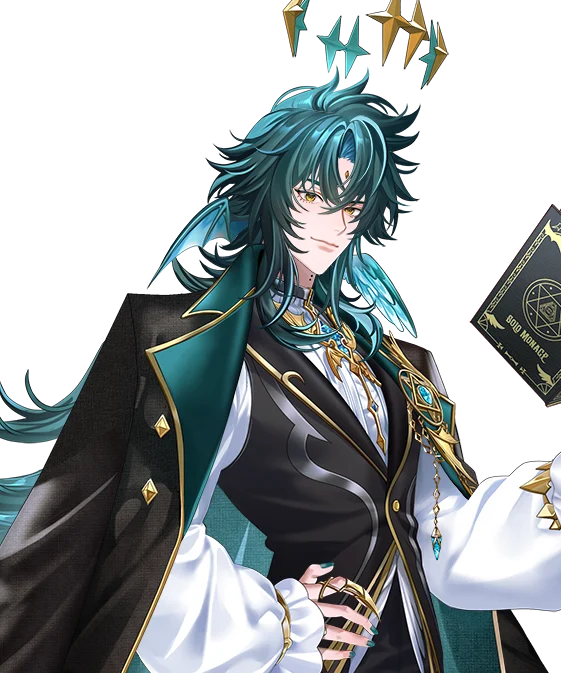
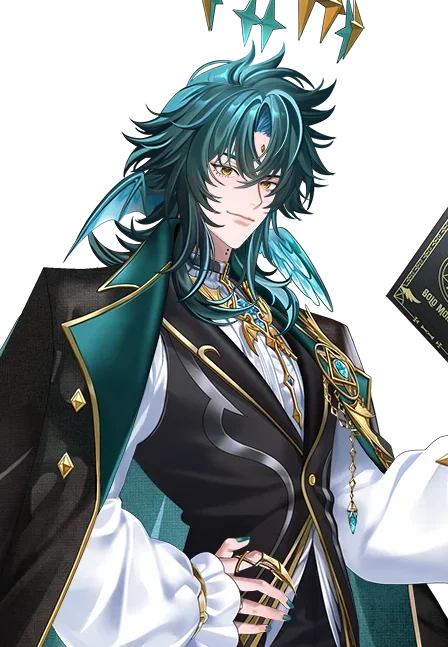
Closer Monace half-body
Claude-Session: https://claude.ai/code/session_0182ETGqkY6VZC2ACV9rE9Mb

diff --git a/index.html b/index.html
@@ -952,7 +952,7 @@ var TALENTS = [
   { id:'luxia', halves:['talent-luxia-half.webp?v=2'], card:'talent-luxia-half.webp?v=2', img:'talent-luxia.webp?v=3', face:'talent-luxia-face.webp?v=8',  name:'Luxia', short:'Luxia', ini:'LX', type:'VTuber', aff:{name:'Polygon', logo:'logos/polygon-mark.png'}, langs:['th'], color:'#E7E1F7', tags:['#Singing','#FreeTalk','#Gaming','#Drawing'], works:['promo','review','collab','dub'], links:[['YouTube',57079,'https://www.youtube.com/@LuxiaPLG'],['TikTok',15700,'https://www.tiktok.com/@luxiaplg'],['Facebook',12455,'https://www.facebook.com/LuxiaPolygon'],['X',16481,'https://x.com/LuxiaPLG']], quote:['ลูเซีย แม่ชีนักวาดผู้ไม่อาจหยุดความวายป่วง','Luxia, an artist nun who simply cannot stop the chaos.'] },
   { id:'riona', halves:['talent-riona-half.webp','talent-riona-2-half.webp'], card:'talent-riona-half.webp', img:'talent-riona.webp', face:'talent-riona-face.webp?v=7', forms:['talent-riona.webp','talent-riona-2.webp'],  name:'Riona', short:'Riona', ini:'RN', type:'VTuber', aff:{name:'Polygon', logo:'logos/polygon-mark.png'}, langs:['th','en'], color:'#FFE7C7', tags:['#Singing','#FreeTalk','#Gaming','#RolePlay'], works:['promo','review','collab','dub'], links:[['YouTube',16208,'https://www.youtube.com/@RionaPLG'],['TikTok',4081,'https://www.tiktok.com/@rionaplg'],['Facebook',10980,'https://www.facebook.com/RionaPolygon'],['X',4583,'https://x.com/RionaPLG']], quote:['เสือ สวย รวย และน่าน้วยก็ได้ ประธานนักเรียนรุ่นที่ 10 โรงเรียน PLG ริโอน่า สวัสดีค่ะ','A tiger: pretty, rich, and cuddly if you like. Hello, I am Riona, 10th student council president of PLG School!'] },
   { id:'anya', halves:['talent-anya-half.webp?v=2','talent-anya-2-half.webp'], card:'talent-anya-half.webp?v=2', img:'talent-anya.webp?v=2', face:'talent-anya-face.webp?v=7', forms:['talent-anya.webp?v=2','talent-anya-2.webp'],  name:'Anya', short:'Anya', ini:'AY', type:'VTuber', aff:{name:'Polygon', logo:'logos/polygon-mark.png'}, langs:['th'], color:'#DCEFE3', tags:['#Singing','#FreeTalk','#Gaming','#HandCam'], works:['promo','review','collab','dub'], links:[['YouTube',19635,'https://www.youtube.com/@AnyaPLG'],['TikTok',8095,'https://www.tiktok.com/@anyaplg'],['Facebook',7139,'https://www.facebook.com/AnyaPolygon'],['X',4071,'https://x.com/AnyaPLG']], quote:['ลึกแต่ไม่ลับ คับแต่ไม่แคบ ไม่ใช่แค่ช้าง แต่เป็นแมมมอธ แฮ่ !','Deep but no secrets, packed but never cramped. Not just an elephant, a mammoth. Rawr!'] },
-  { id:'monace', halves:['talent-monace-half.webp'], card:'talent-monace-half.webp', img:'talent-monace.webp', face:'talent-monace-face.webp?v=7',  name:'Monace', short:'Monace', ini:'MN', type:'VTuber', aff:{name:'Polygon', logo:'logos/polygon-mark.png'}, langs:['th','en'], color:'#D9E4F5', tags:['#Singing','#FreeTalk','#Gaming','#SongComposer'], works:['promo','review','cover','collab','dub'], links:[['YouTube',2608,'https://www.youtube.com/@MONACEPLG'],['TikTok',1735,'https://www.tiktok.com/@monaceplg'],['Facebook',558,'https://www.facebook.com/MONACEPLG'],['X',1477,'https://x.com/MONACEPLG']], quote:['แรปเปอร์ตัวตึงอาจจะดูเท่ แต่ใจดี พร้อมอยู่ข้างๆ ให้คุณรู้สึกสบายใจเสมอ โซโล โมเนซ ครับ 🪽','A rapper who may look tough but has a kind heart, always by your side to put you at ease. Solo Monace here 🪽'] },
+  { id:'monace', halves:['talent-monace-half.webp?v=2'], card:'talent-monace-half.webp?v=2', img:'talent-monace.webp', face:'talent-monace-face.webp?v=7',  name:'Monace', short:'Monace', ini:'MN', type:'VTuber', aff:{name:'Polygon', logo:'logos/polygon-mark.png'}, langs:['th','en'], color:'#D9E4F5', tags:['#Singing','#FreeTalk','#Gaming','#SongComposer'], works:['promo','review','cover','collab','dub'], links:[['YouTube',2608,'https://www.youtube.com/@MONACEPLG'],['TikTok',1735,'https://www.tiktok.com/@monaceplg'],['Facebook',558,'https://www.facebook.com/MONACEPLG'],['X',1477,'https://x.com/MONACEPLG']], quote:['แรปเปอร์ตัวตึงอาจจะดูเท่ แต่ใจดี พร้อมอยู่ข้างๆ ให้คุณรู้สึกสบายใจเสมอ โซโล โมเนซ ครับ 🪽','A rapper who may look tough but has a kind heart, always by your side to put you at ease. Solo Monace here 🪽'] },
   { id:'vinxiii', halves:['talent-vinxiii-half.webp'], card:'talent-vinxiii-half.webp', img:'talent-vinxiii.webp', face:'talent-vinxiii-face.webp?v=7',  name:'VinXIII', short:'VinXIII', ini:'VX', type:'VTuber', aff:{name:'Polygon', logo:'logos/polygon-mark.png'}, langs:['th'], color:'#F6E7C8', tags:['#Singing','#FreeTalk','#Gaming'], works:['promo','review','cover','collab'], links:[['YouTube',1715,'https://www.youtube.com/@VinXIIIPLG'],['TikTok',1187,'https://www.tiktok.com/@vinxiiiplg'],['Facebook',139,'https://www.facebook.com/VinXIIIPLG'],['X',2175,'https://x.com/VinXIIIPLG']], quote:['ถ้าตามหาคนที่จะทำให้หัวเราะได้ วินซี่ อยู่ตรงนี้เองครับ ที่ไม่ว่าอยู่ที่ไหนก็ทำให้บรรยากาศสดใสขึ้นทันที ⚜','Looking for someone to make you laugh? Vinzy is right here, brightening the room wherever he goes ⚜'] },
   { id:'augustine', halves:['talent-augustine-half.webp'], card:'talent-augustine-half.webp', img:'talent-augustine.webp', face:'talent-augustine-face.webp?v=7',  name:'Augustine', short:'Augustine', ini:'AG', type:'VTuber', aff:{name:'Polygon', logo:'logos/polygon-mark.png'}, langs:['th','en'], color:'#E3F0FA', tags:['#Singing','#FreeTalk','#Gaming','#Dentist'], works:['promo','review','cover','collab'], links:[['YouTube',10500,'https://www.youtube.com/@AugustinePLG'],['TikTok',37200,'https://www.tiktok.com/@augustineplg'],['Facebook',770,'https://www.facebook.com/AugustinePLG'],['X',4178,'https://x.com/AugustinePLG']], quote:['ออกัสทีนเองครับ มีทั้งความสวย ความหล่อ และพลังบวกที่จะทำให้คุณยิ้มได้ทุกวัน อยากมาลองชิมมั้ยครับ','Augustine here: pretty, handsome and full of good vibes to make you smile every day. Care for a taste?'] },
 ];
